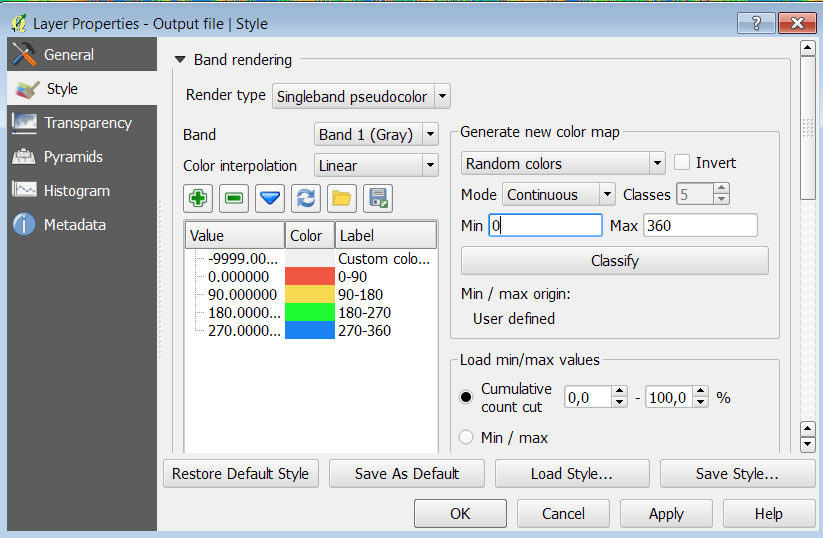
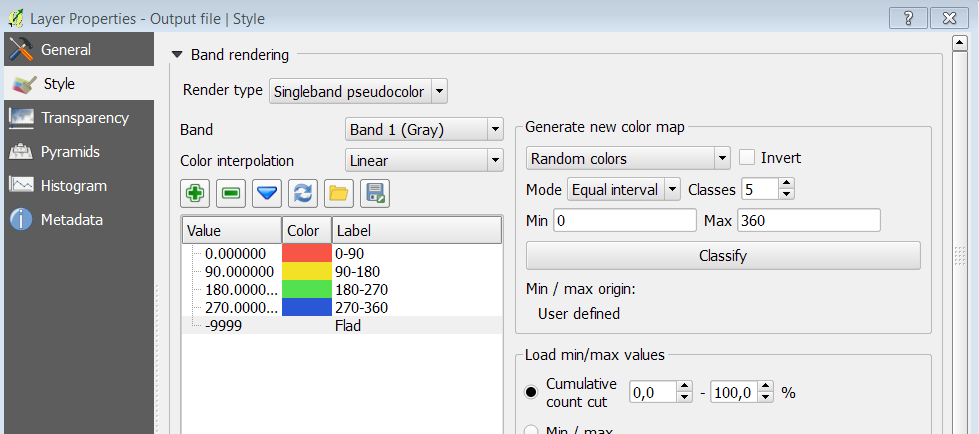
xx

diff --git a/module7lab/qgis2_6/Module 7 Lab.md b/module7lab/qgis2_6/Module 7 Lab.md
@@ -349,15 +349,13 @@ The output should resemble the figure below with values ranging from ~0-360 repr
 1. Open the **Layer Properties>Style**
 2. The values goes from 0-360 degree.
 ![Aspect Style](figures_dk/aspect_style.png "Aspect Style")
-3. Click on **Style tab**. Set the range from **Min: 0** to **Max 20**
+3. Click on **Style tab**. Set the range from **Min: 0** to **Max360**
 4. Generate a new color map. Choose **Random colors** 
 5. Mode **Equal interval** Classes **5**
-6. Min **0** Max **360**
-7. Double click on **360** and write **-9999**
-8. Click **+** Add value manually, and write **60**
-9. Change all the labels to interval **0-90, 90-180, 180-270, 270-360, Flat.**
-10. Save the Project
-11. **Remove** all files
+6. Double click on **360** and write **-9999**
+7. Change all the labels to interval **0-90, 90-180, 180-270, 270-360, Flat.**
+8. Save the Project
+9. **Remove** all files
 
 ![Aspect Color](figures_dk/aspect_color.png "Aspect Color")
 
